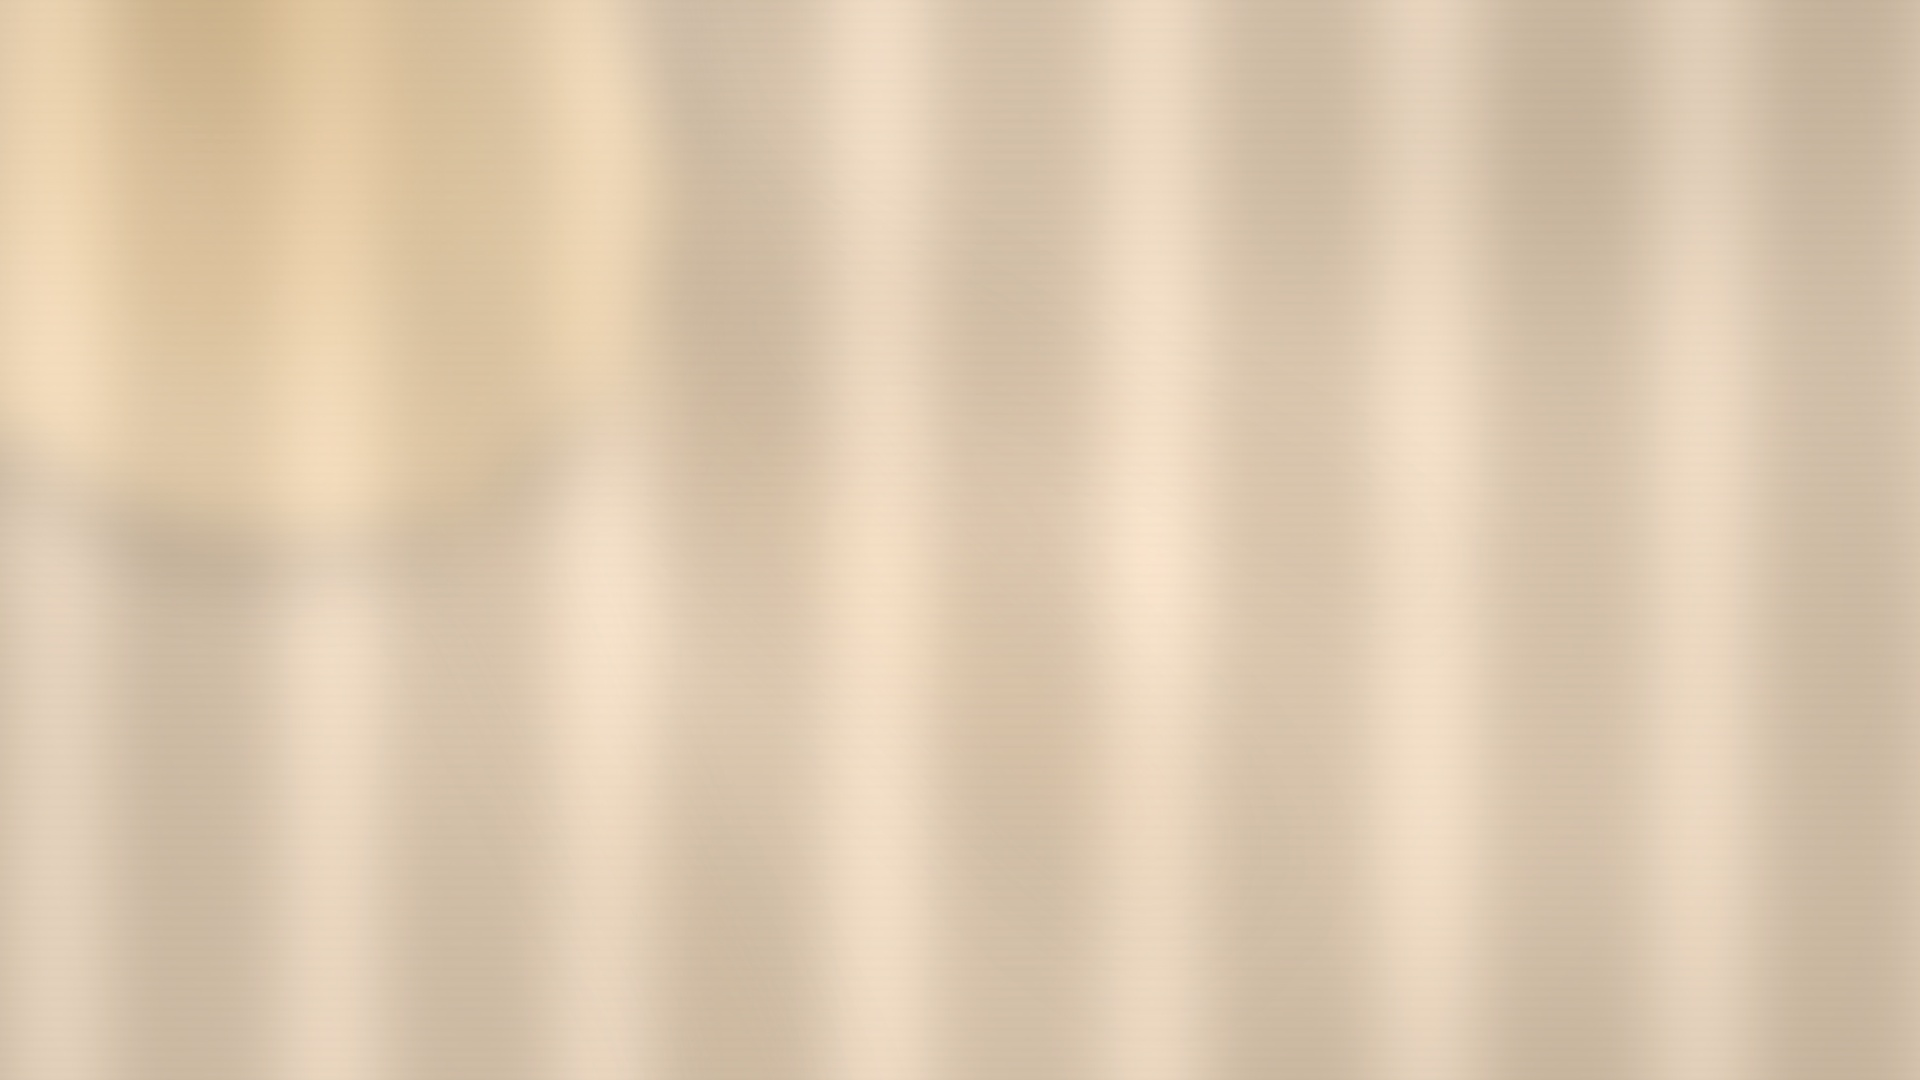
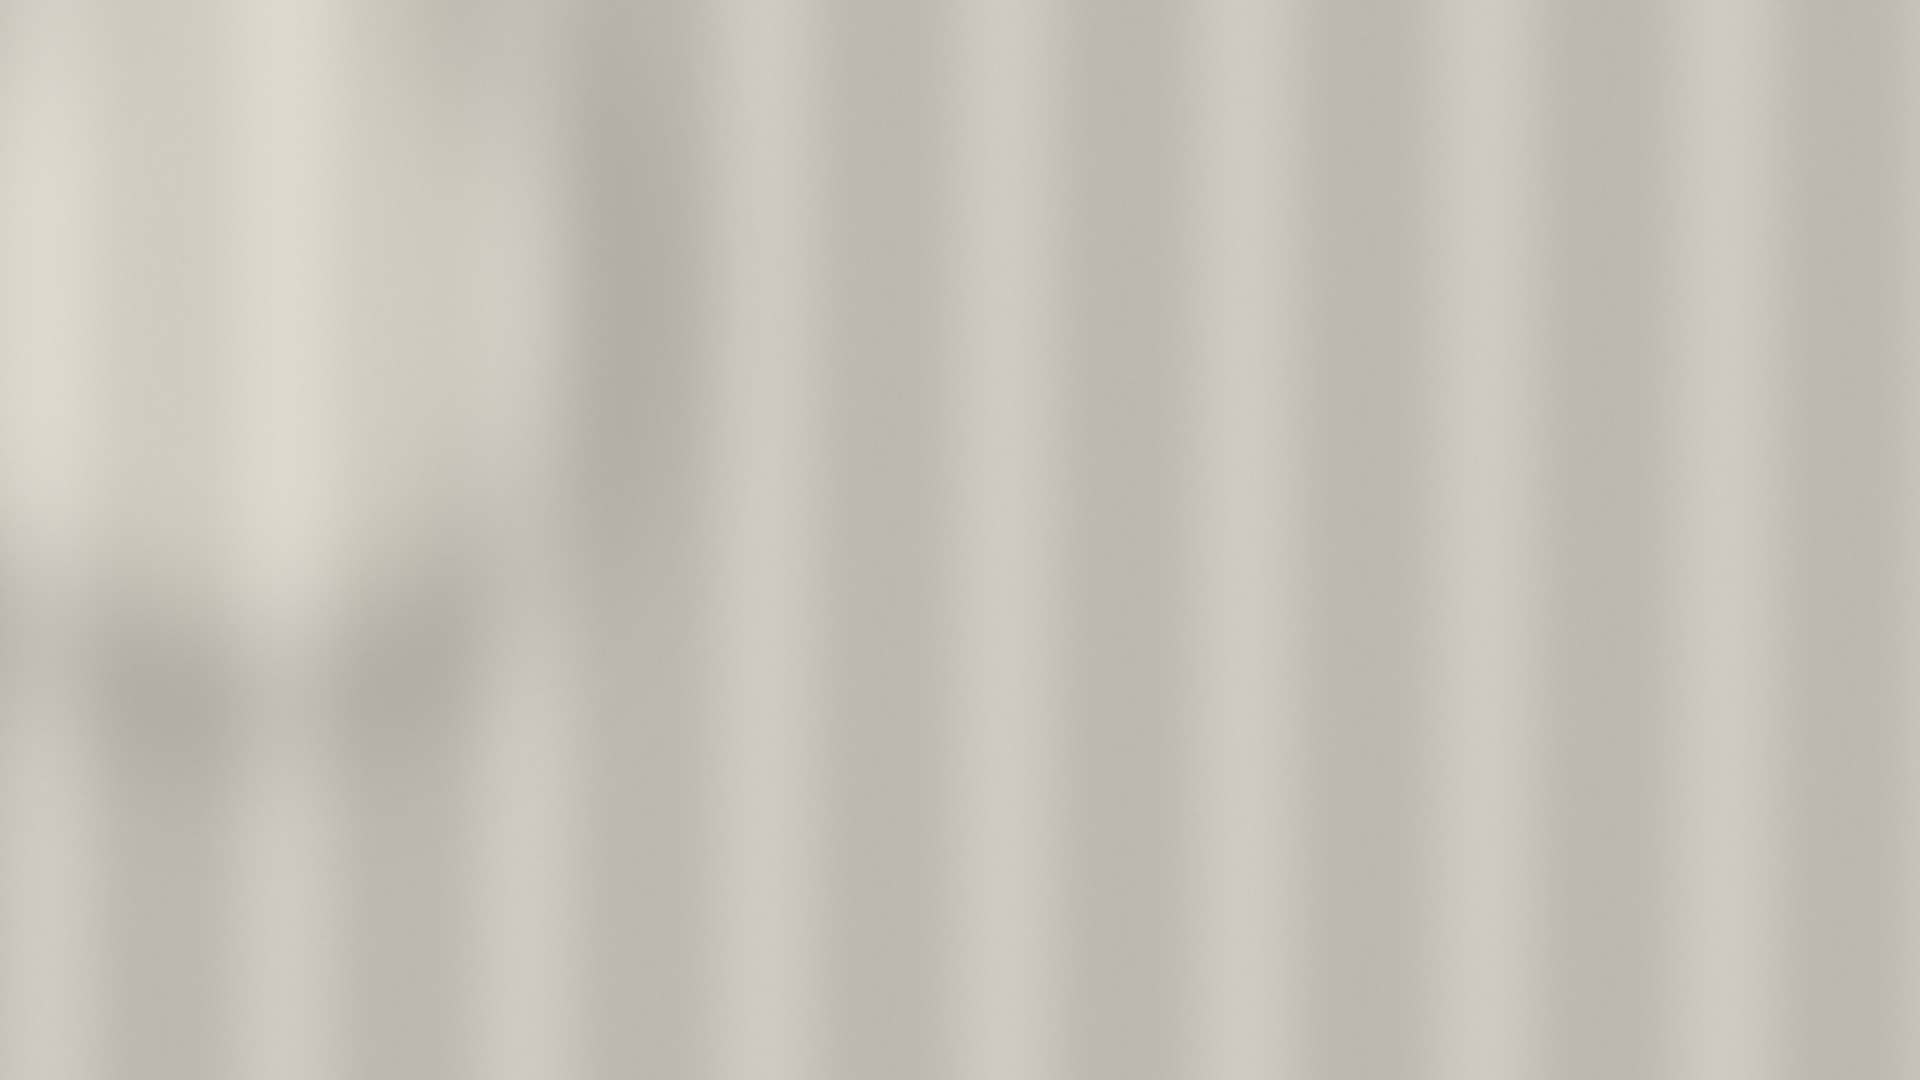
style(obs): ground stream copy in authentic community voice and tune camera backdrops to natural room lighting
- Align camera-background overlay with warm craftsman linen paper palette
- Sample natural drape and window light values from room photos for subtle, unpretentious virtual backgrounds
- Ground stream-starting, lower-third, overlay-state, and thumbnail copy in approachable, honest community questions
- Re-render Episode 01 1080p and 720p thumbnails with updated titles and community framing

diff --git a/obs/overlays/camera-background.html b/obs/overlays/camera-background.html
@@ -9,18 +9,19 @@
       width: 1920px;
       height: 1080px;
       position: relative;
-      background: #0d1117;
+      background: #faf8f5;
       overflow: hidden;
+      font-family: var(--font-sans);
     }
 
-    /* ─── Base gradient layer ─────────────────────────────────────────── */
+    /* ─── Base gradient layer — warm linen paper ───────────────────────── */
     .bg-gradient {
       position: absolute;
       inset: 0;
       background:
-        radial-gradient(ellipse 900px 600px at 15% 50%, rgba(45, 212, 191, 0.06) 0%, transparent 70%),
-        radial-gradient(ellipse 600px 800px at 85% 20%, rgba(30, 40, 55, 0.8) 0%, transparent 60%),
-        linear-gradient(165deg, #0d1117 0%, #111822 40%, #0a0f16 100%);
+        radial-gradient(ellipse 900px 600px at 20% 40%, rgba(255, 255, 255, 0.9) 0%, transparent 70%),
+        radial-gradient(ellipse 800px 900px at 80% 25%, rgba(243, 236, 224, 0.7) 0%, transparent 65%),
+        linear-gradient(170deg, #fffdfa 0%, #faf8f5 45%, #f1eae0 100%);
     }
 
     /* ─── Subtle grid / graph-paper texture ─────────────────────────── */
@@ -28,19 +29,19 @@
       position: absolute;
       inset: 0;
       background-image:
-        linear-gradient(rgba(45, 212, 191, 0.035) 1px, transparent 1px),
-        linear-gradient(90deg, rgba(45, 212, 191, 0.035) 1px, transparent 1px);
-      background-size: 60px 60px;
+        linear-gradient(rgba(15, 118, 110, 0.035) 1px, transparent 1px),
+        linear-gradient(90deg, rgba(15, 118, 110, 0.035) 1px, transparent 1px);
+      background-size: 54px 54px;
     }
 
-    /* ─── Vignette to push edges dark, keep face zone bright ─────────── */
+    /* ─── Vignette to push soft warm edges, keeping center clean ─────── */
     .bg-vignette {
       position: absolute;
       inset: 0;
       background: radial-gradient(
-        ellipse 80% 80% at 50% 50%,
-        transparent 40%,
-        rgba(0, 0, 0, 0.55) 100%
+        ellipse 75% 75% at 50% 50%,
+        transparent 50%,
+        rgba(215, 206, 192, 0.45) 100%
       );
     }
 
@@ -49,16 +50,15 @@
       position: absolute;
       left: 0;
       top: 0;
-      width: 4px;
+      width: 6px;
       height: 100%;
       background: linear-gradient(
         to bottom,
-        transparent 0%,
-        #e5a95d 30%,
-        #e5a95d 70%,
-        transparent 100%
+        var(--teal-craftsman) 0%,
+        var(--amber-accent) 50%,
+        var(--teal-craftsman) 100%
       );
-      opacity: 0.7;
+      opacity: 0.85;
     }
 
     /* ─── Scanline shimmer (ultra-subtle CRT nod) ──────────────────── */
@@ -78,9 +78,9 @@
     /* ─── Floating geometric code-fragment decorations ──────────────── */
     .code-fragment {
       position: absolute;
-      font-family: "SF Mono", Menlo, Monaco, Consolas, "Liberation Mono", monospace;
-      font-size: 12px;
-      color: rgba(45, 212, 191, 0.12);
+      font-family: var(--font-mono);
+      font-size: 13px;
+      color: rgba(15, 118, 110, 0.22);
       letter-spacing: 0.04em;
       line-height: 1.8;
       white-space: pre;
@@ -96,8 +96,8 @@
     }
 
     .frag-1 { top: 120px;  left: 80px;  animation-duration: 45s; animation-delay: 0s; }
-    .frag-2 { top: 300px;  left: 1600px; animation-duration: 60s; animation-delay: -15s; }
-    .frag-3 { top: 650px;  left: 1750px; animation-duration: 50s; animation-delay: -8s; }
+    .frag-2 { top: 300px;  left: 1560px; animation-duration: 60s; animation-delay: -15s; }
+    .frag-3 { top: 650px;  left: 1700px; animation-duration: 50s; animation-delay: -8s; }
     .frag-4 { top: 800px;  left: 100px;  animation-duration: 55s; animation-delay: -22s; }
 
     /* ─── Corner sigil — bottom-right brand mark ─────────────────────── */
@@ -109,21 +109,22 @@
       flex-direction: column;
       align-items: flex-end;
       gap: 4px;
-      opacity: 0.35;
+      opacity: 0.55;
     }
 
     .sigil-label {
-      font-family: "SF Mono", Menlo, Monaco, Consolas, "Liberation Mono", monospace;
-      font-size: 10px;
-      letter-spacing: 0.18em;
+      font-family: var(--font-mono);
+      font-size: 11px;
+      letter-spacing: 0.16em;
       text-transform: uppercase;
-      color: #e5a95d;
+      color: var(--amber-accent);
+      font-weight: 700;
     }
 
     .sigil-line {
-      width: 80px;
-      height: 1px;
-      background: linear-gradient(to left, #e5a95d, transparent);
+      width: 100px;
+      height: 2px;
+      background: linear-gradient(to left, var(--amber-accent), transparent);
     }
 
     /* ─── Top-right subtle era marker ────────────────────────────────── */
@@ -131,25 +132,27 @@
       position: absolute;
       top: 40px;
       right: 60px;
-      font-family: "SF Mono", Menlo, Monaco, Consolas, "Liberation Mono", monospace;
-      font-size: 11px;
+      font-family: var(--font-mono);
+      font-size: 12px;
       letter-spacing: 0.14em;
       text-transform: uppercase;
-      color: rgba(45, 212, 191, 0.28);
+      color: var(--teal-craftsman);
+      font-weight: 700;
       text-align: right;
+      opacity: 0.6;
     }
 
-    /* ─── Ambient amber glow orb — upper left behind speaker ─────────── */
+    /* ─── Ambient glow orb — upper left ─────────────────────────────── */
     .glow-orb {
       position: absolute;
-      width: 500px;
-      height: 500px;
+      width: 600px;
+      height: 600px;
       left: -80px;
-      top: 180px;
+      top: 140px;
       border-radius: 50%;
       background: radial-gradient(
         circle at center,
-        rgba(45, 212, 191, 0.07) 0%,
+        rgba(15, 118, 110, 0.05) 0%,
         transparent 70%
       );
       animation: orb-breathe 8s ease-in-out infinite;
@@ -173,34 +176,39 @@
   <div class="accent-left-bar"></div>
 
   <!-- Ambient code fragments — far left and far right edges only, never face zone -->
-  <div class="code-fragment frag-1">module Craftsmanship
+  <div class="code-fragment frag-1">module Community
   extend ActiveSupport::Concern
   included do
-    validates :intention, presence: true
+    validates :hospitality, presence: true
+    validates :deliberate_practice, presence: true
   end
 end</div>
 
-  <div class="code-fragment frag-2">class ObservableSystem
-  def initialize(observer)
-    @bus = EventBus.new
-    @observer = observer
+  <div class="code-fragment frag-2">class Apprenticeship
+  def initialize(mentor, apprentice)
+    @mentor = mentor
+    @apprentice = apprentice
+    @workbench = OpenWorkbench.new
   end
 end</div>
 
-  <div class="code-fragment frag-3">  # zdots platform
-  # panoramic view labs
-  # 2026 — PVL</div>
+  <div class="code-fragment frag-3">  # UGtastic Archive (2009–2026)
+  # Chicago Software Craftsmanship
+  # Learning about people, one interview at a time</div>
 
-  <div class="code-fragment frag-4">rake validate:resume_quality
-→ ATS score: 88.2%
-→ zero em-dashes ✓
-→ schema.org Person ✓</div>
+  <div class="code-fragment frag-4">def deliberate_practice
+  loop do
+    test_first
+    refactor_with_care
+    share_what_you_learn
+  end
+end</div>
 
   <!-- Bottom-right corner sigil -->
   <div class="corner-sigil">
-    <span class="sigil-label">The Sound Above</span>
+    <span class="sigil-label">WHOIS TECH COMMUNITY</span>
     <div class="sigil-line"></div>
-    <span class="sigil-label">UGtastic Oral History</span>
+    <span class="sigil-label">The Sound Above · Rewatch</span>
   </div>
 
   <!-- Top-right era watermark — updates via overlay-controller if needed -->

diff --git a/obs/overlays/stream-starting.html b/obs/overlays/stream-starting.html
@@ -158,7 +158,7 @@
       <img class="brand-logo" src="assets/ugtastic-avatar.png" alt="UGtastic logo">
       <div class="series-titles">
         <h1 id="brand-title">The Sound Above</h1>
-        <p>UGtastic Oral History Rewatch : Craftsmanship in the Age of AI</p>
+        <p>UGtastic Rewatch · Learning About People in Tech (2009–2026)</p>
       </div>
     </div>
     <div class="pill-badge">
@@ -169,13 +169,13 @@
 
   <div class="center-stage">
     <div class="status-alert">
-      <span>CRAFTING THE WORKBENCH</span>
+      <span>CRAFTING COMMUNITY</span>
       <span>//</span>
-      <span id="start-era">THE CHICAGO CRUCIBLE</span>
+      <span id="start-era">THE CHICAGO COMMUNITY</span>
     </div>
 
     <h2 class="episode-headline" id="start-title">
-      The First Room: Chicago Alt.NET & Escaping Corporate Silos
+      Chicago Alt.NET: The Early Meetups and Finding Open Source
     </h2>
 
     <div class="stream-panel episode-details-card">
@@ -184,7 +184,7 @@
         <span class="event-chip" id="start-event">SCNA 2011</span>
       </div>
       <div class="quote-box" id="start-prompt">
-        "Who inspired the pioneers before the movement had a name? Breaking free from monolithic frameworks through grassroots community."
+        "How did a group of developers in Chicago get together after work to learn open source and testing when corporate IT pushed back?"
       </div>
     </div>
   </div>

diff --git a/obs/thumbnails/episode-01-thumbnail.html b/obs/thumbnails/episode-01-thumbnail.html
@@ -316,13 +316,13 @@
   <!-- Main Content -->
   <main class="thumb-main">
     <div class="kicker-row">
-      <span class="kicker-era">The Chicago Crucible (2005–2010)</span>
+      <span class="kicker-era">The Chicago Community (2005–2010)</span>
       <span class="kicker-sep">/</span>
       <span class="kicker-episode">Episode 01</span>
     </div>
 
     <h2 class="thumb-title">
-      The First Room: Chicago Alt.NET &amp; Escaping Corporate Monoliths
+      Chicago Alt.NET: The Early Meetups and Finding Open Source
     </h2>
 
     <div class="guest-card">
@@ -331,10 +331,10 @@
           <span class="guest-name">Sergio Pereira</span>
           <span class="guest-tag">SCNA 2011 · Chicago, IL</span>
         </div>
-        <span class="guest-role">Founder, Chicago Alt.NET · Grassroots Community Builder</span>
+        <span class="guest-role">Organizer, Chicago Alt.NET · Grassroots Community Builder</span>
       </div>
       <div class="guest-quote">
-        "Who inspired the pioneers before the movement had a name? Breaking free from monolithic frameworks through grassroots community."
+        "How did a group of developers in Chicago get together after work to learn open source and testing when corporate IT pushed back?"
       </div>
     </div>
   </main>

diff --git a/obs/overlays/lower-third.html b/obs/overlays/lower-third.html
@@ -133,9 +133,9 @@
         <span id="interviewee">Sergio Pereira</span>
         <span class="event-tag" id="event-context">SCNA 2011 (Chicago, IL)</span>
       </div>
-      <div class="role-desc" id="role">Founder, Chicago Alt.NET : Grassroots Practitioner</div>
+      <div class="role-desc" id="role">Chicago Alt.NET Organizer : Community Practitioner</div>
       <div class="sound-above-prompt" id="prompt">
-        "Who inspired the pioneers before the movement had a name? Breaking free from monolithic frameworks."
+        "How did a group of developers in Chicago get together after work to learn open source and testing when corporate IT pushed back?"
       </div>
     </div>
   </div>

diff --git a/obs/backgrounds/generate_backgrounds.py b/obs/backgrounds/generate_backgrounds.py
@@ -25,12 +25,12 @@ os.makedirs(OUT, exist_ok=True)
 rng = random.Random(42)
 
 # ── Palette ──────────────────────────────────────────────────────────────────
-# Sampled from the actual photo: warm cream/linen curtain
-LINEN_BASE   = (230, 222, 210)   # warm off-white
-LINEN_SHADOW = (195, 188, 176)   # fold shadow
-LINEN_LIGHT  = (245, 240, 232)   # highlight
-WARM_GOLD    = (255, 220, 140)   # morning sunbeam core
-WARM_GLOW    = (255, 235, 180)   # morning sunbeam halo
+# Sampled directly from room photos: warm off-white linen drape
+LINEN_BASE   = (212, 208, 200)   # warm natural linen
+LINEN_SHADOW = (185, 180, 172)   # gentle fold shadow
+LINEN_LIGHT  = (232, 228, 222)   # soft highlight
+WARM_GOLD    = (250, 242, 225)   # subtle morning window diffuse light
+WARM_GLOW    = (255, 248, 235)   # morning window glow halo
 
 
 def make_noise_layer(w, h, scale=4, seed=0):
